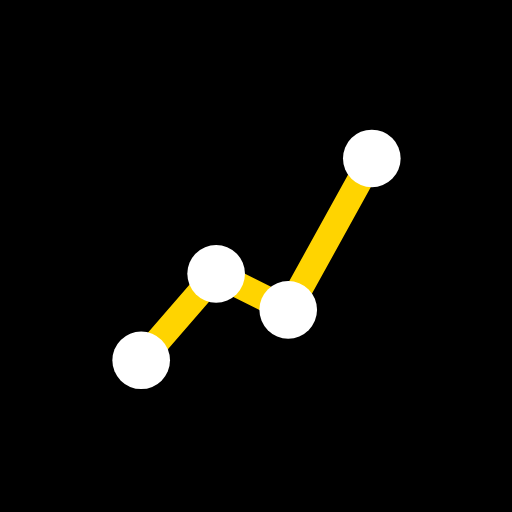
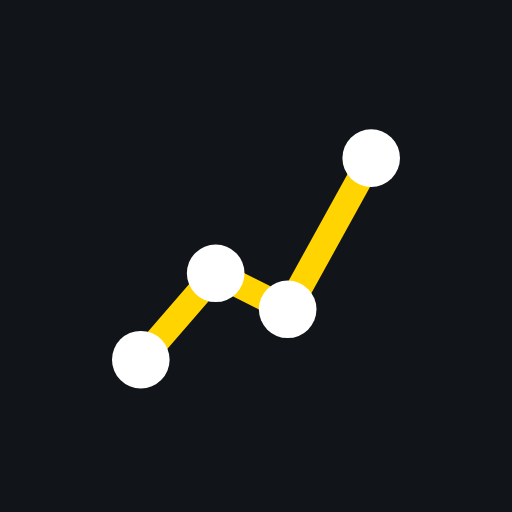
PWA: abertura e ícone em grafite (sem piscar preto ao abrir o app instalado)
O manifesto e o <meta theme-color> passam do preto puro para o grafite do tema Polegar,
e o ícone (SVG e os 3 PNGs, inclusive o maskable) ganha fundo grafite, sem o quadrado preto.
Testes guardam a ligação entre a cor do tema padrão, o manifesto, o index.html e o ícone.

Claude-Session: https://claude.ai/code/session_0172ML3ASL7fVEQxeB7XnFoV

diff --git a/src/theme/theme.test.ts b/src/theme/theme.test.ts
@@ -1,3 +1,4 @@
+import { readFileSync } from 'node:fs';
 import { beforeEach, describe, expect, it } from 'vitest';
 import { DEFAULT_THEME, THEMES, THEME_STORAGE_KEY, applyTheme, getTheme, isThemeId, parseTheme, readTheme, setTheme } from './theme';
 
@@ -68,5 +69,19 @@ describe('tema da interface', () => {
     expect(new Set(THEMES.map((t) => t.swatch.accent)).size).toBe(2);
     expect(new Set(THEMES.map((t) => t.color)).size).toBe(2);
     for (const t of THEMES) expect(t.color).toBe(t.swatch.bg);
+  });
+
+  it('a abertura do app instalado usa o grafite do tema padrão (manifesto e <meta> do index.html)', () => {
+    const padrao = THEMES.find((t) => t.id === DEFAULT_THEME)!.color;
+    const manifesto = readFileSync(new URL('../../vite.config.ts', import.meta.url), 'utf8');
+    const html = readFileSync(new URL('../../index.html', import.meta.url), 'utf8');
+    expect(manifesto).toContain(`background_color: '${padrao}'`);
+    expect(manifesto).toContain(`theme_color: '${padrao}'`);
+    expect(html).toContain(`<meta name="theme-color" content="${padrao}" />`);
+  });
+  it('o ícone do app tem o mesmo fundo grafite (sem quadrado preto na abertura)', () => {
+    const padrao = THEMES.find((t) => t.id === DEFAULT_THEME)!.color;
+    const svg = readFileSync(new URL('../../public/icon.svg', import.meta.url), 'utf8');
+    expect(svg).toContain(`<rect width="512" height="512" fill="${padrao}"/>`);
   });
 });

diff --git a/vite.config.ts b/vite.config.ts
@@ -34,8 +34,9 @@ const config = defineConfig({
         scope: base,
         display: 'standalone',
         orientation: 'portrait',
-        background_color: '#000000',
-        theme_color: '#000000',
+        // grafite do tema Polegar (--bg): abertura do app instalado sem piscar; o tema escolhido troca a barra depois (theme.ts)
+        background_color: '#111418',
+        theme_color: '#111418',
         icons: [
           { src: 'icon-192.png', sizes: '192x192', type: 'image/png' },
           { src: 'icon-512.png', sizes: '512x512', type: 'image/png' },

diff --git a/index.html b/index.html
@@ -3,7 +3,7 @@
   <head>
     <meta charset="UTF-8" />
     <meta name="viewport" content="width=device-width, initial-scale=1, viewport-fit=cover" />
-    <meta name="theme-color" content="#000000" />
+    <meta name="theme-color" content="#111418" />
     <link rel="icon" type="image/svg+xml" href="/icon.svg" />
     <link rel="apple-touch-icon" href="/icon-192.png" />
     <title>RotaFibra</title>
